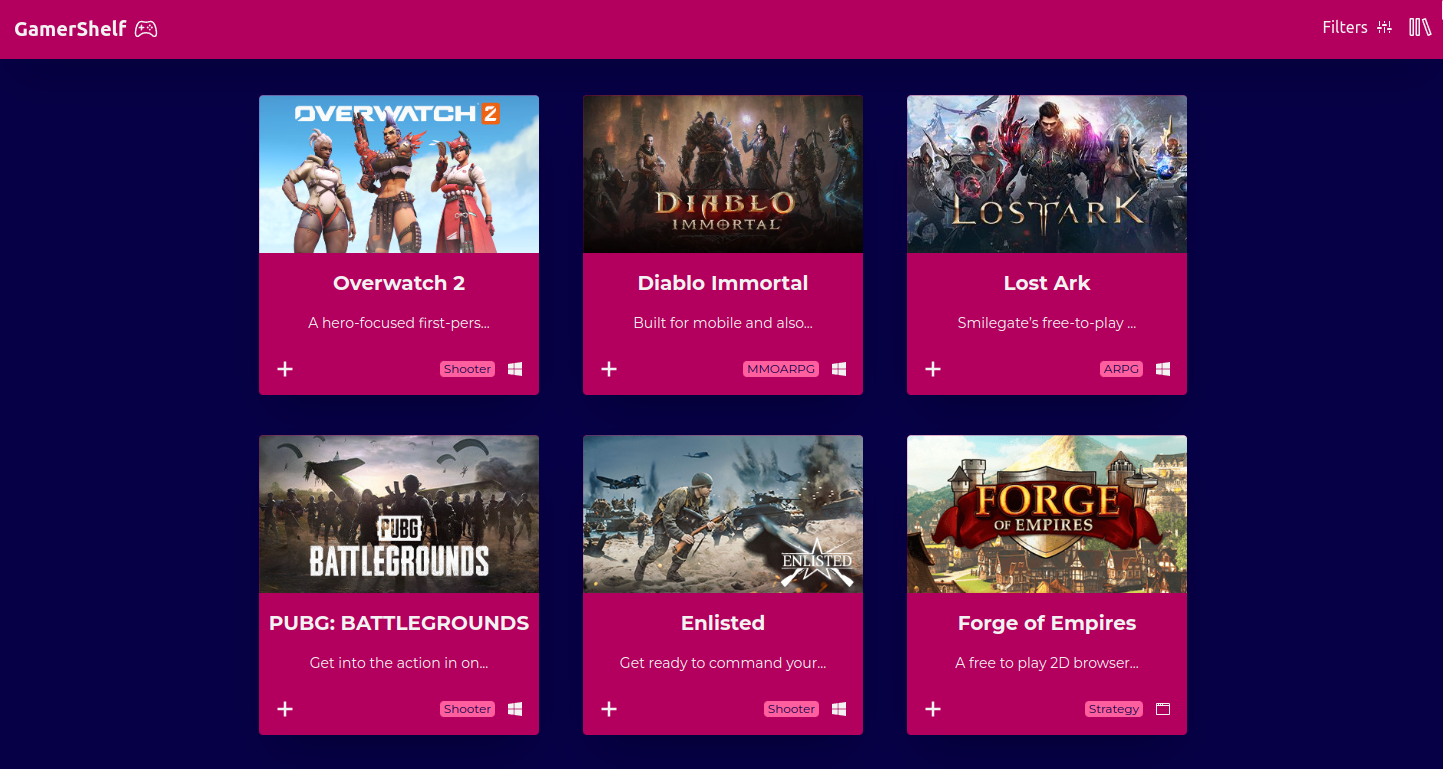
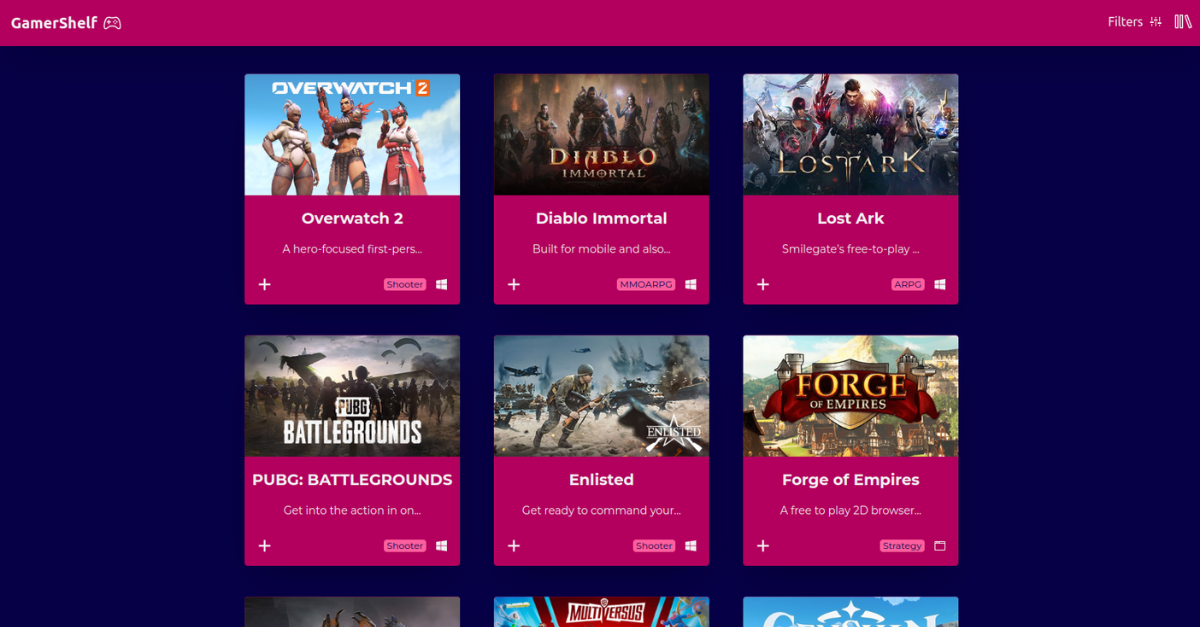
content: add portfolio as project

diff --git a/app/constants/projectsData.ts b/app/constants/projectsData.ts
@@ -1,5 +1,6 @@
 import { Project } from '@/types'
 import GamerShelfThumbnail from '../../public/projects/gamer-shelf.png'
+import PortfolioThumbnail from '../../public/projects/portfolio.png'
 
 const projectsData: Project[] = [
   {
@@ -11,6 +12,15 @@ const projectsData: Project[] = [
     description:
       'Projeto de uma página que utiliza a Free-to-play API para criar um web app onde o usuário pode construir uma biblioteca de jogos',
     technologies: 'React Redux RTKQuery ReactRouter TypeScript Tailwind',
+  },
+  {
+    id: 'portfolio',
+    image: PortfolioThumbnail,
+    repoURL: 'https://github.com/nicolasbrandao/portfolio-next',
+    deployURL: 'https://nicolasbrandao.vercel.app/',
+    title: 'Portfólio',
+    description: 'Projeto de uma página de portfólio pessoal',
+    technologies: 'React Next TypeScript Tailwind',
   },
 ]
 

diff --git a/app/components/ProjectContainer.tsx b/app/components/ProjectContainer.tsx
@@ -2,7 +2,6 @@ import Image from 'next/image'
 import classNames from 'classnames'
 import { ProjectProp } from '@/types'
 import ProjectCard from './ProjectCard'
-import projectsData from '../constants/projectsData'
 
 export default function ProjectContainer({ project }: ProjectProp) {
   const containerClass = classNames(
@@ -22,9 +21,7 @@ export default function ProjectContainer({ project }: ProjectProp) {
         height={350}
         className={projectImageClass}
       />
-      {projectsData.map((item) => (
-        <ProjectCard key={item.id} project={item} />
-      ))}
+      <ProjectCard project={project} />
     </div>
   )
 }

diff --git a/app/components/Projects.tsx b/app/components/Projects.tsx
@@ -6,7 +6,12 @@ import TitleHeader from './TitleHeader'
 import ProjectContainer from './ProjectContainer'
 
 export default function Projects() {
-  const projectsListContainerClass = classNames('flex', 'flex-col', 'my-auto')
+  const projectsListContainerClass = classNames(
+    'flex',
+    'flex-col',
+    'my-auto',
+    'gap-16'
+  )
   return (
     <Paper id="projects">
       <TitleHeader>Projetos</TitleHeader>
